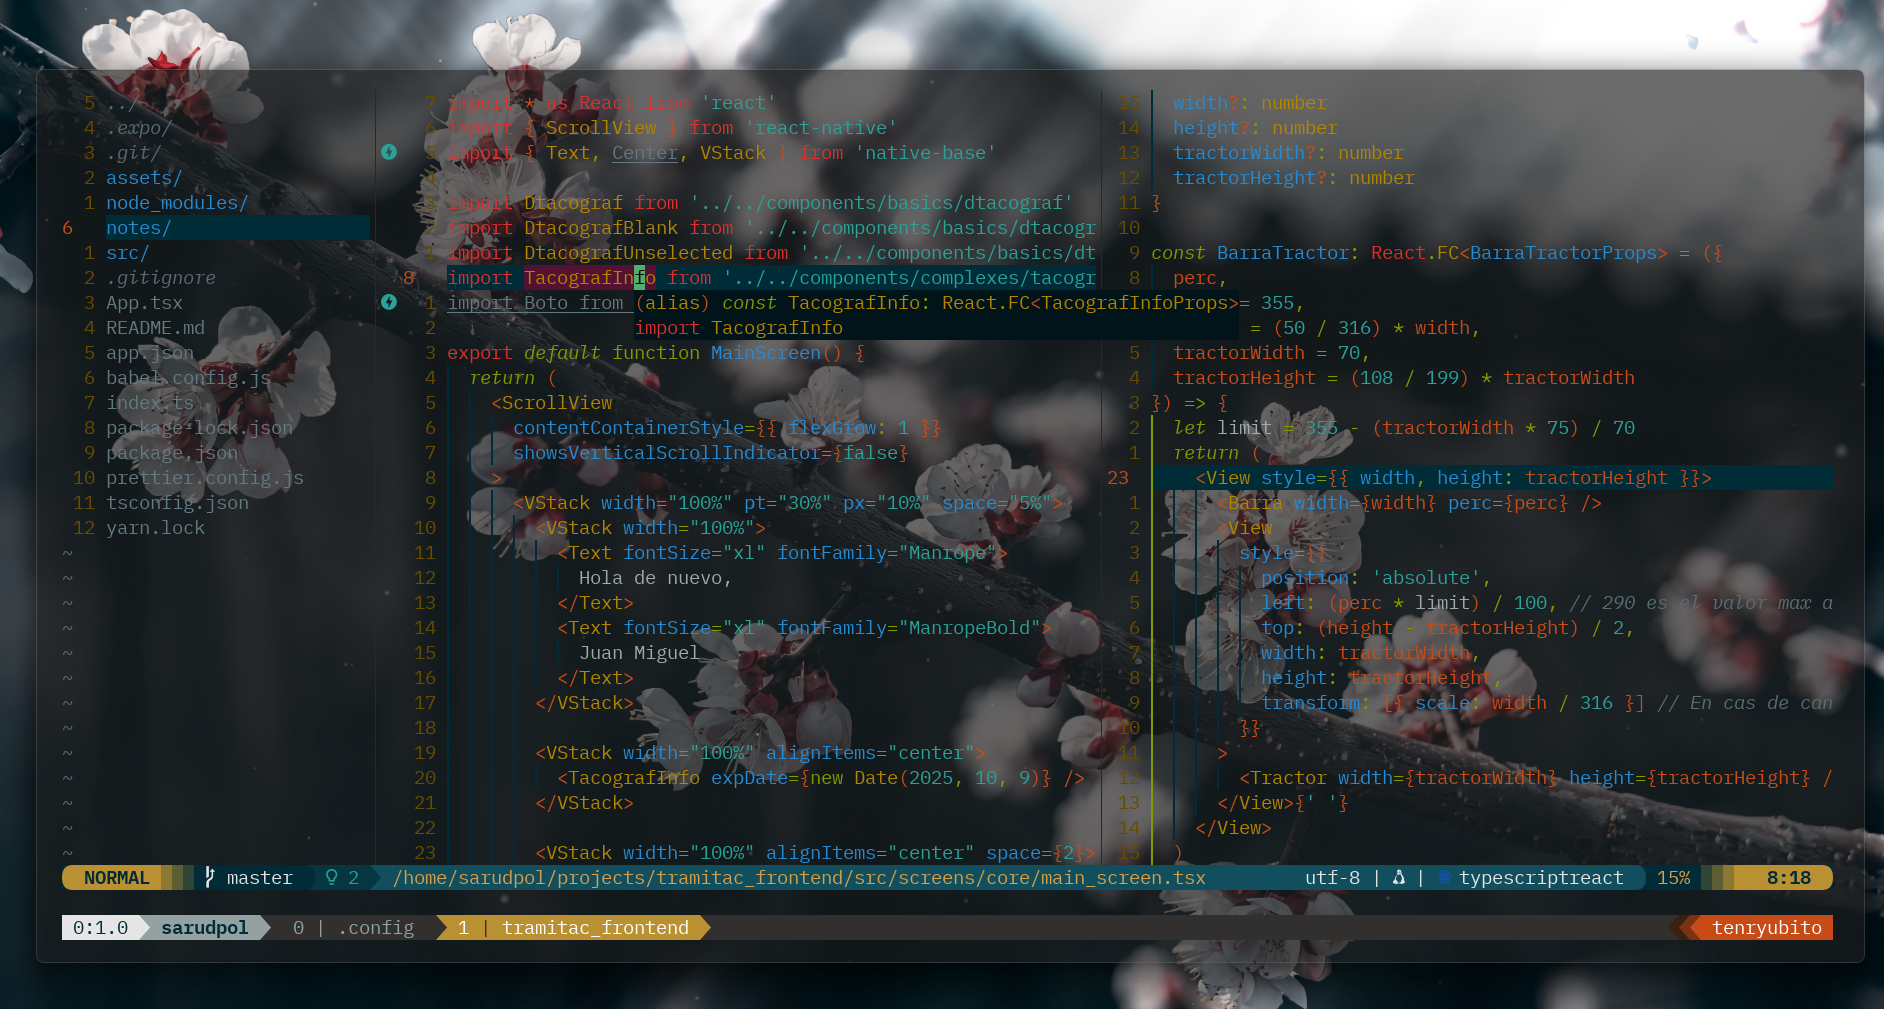
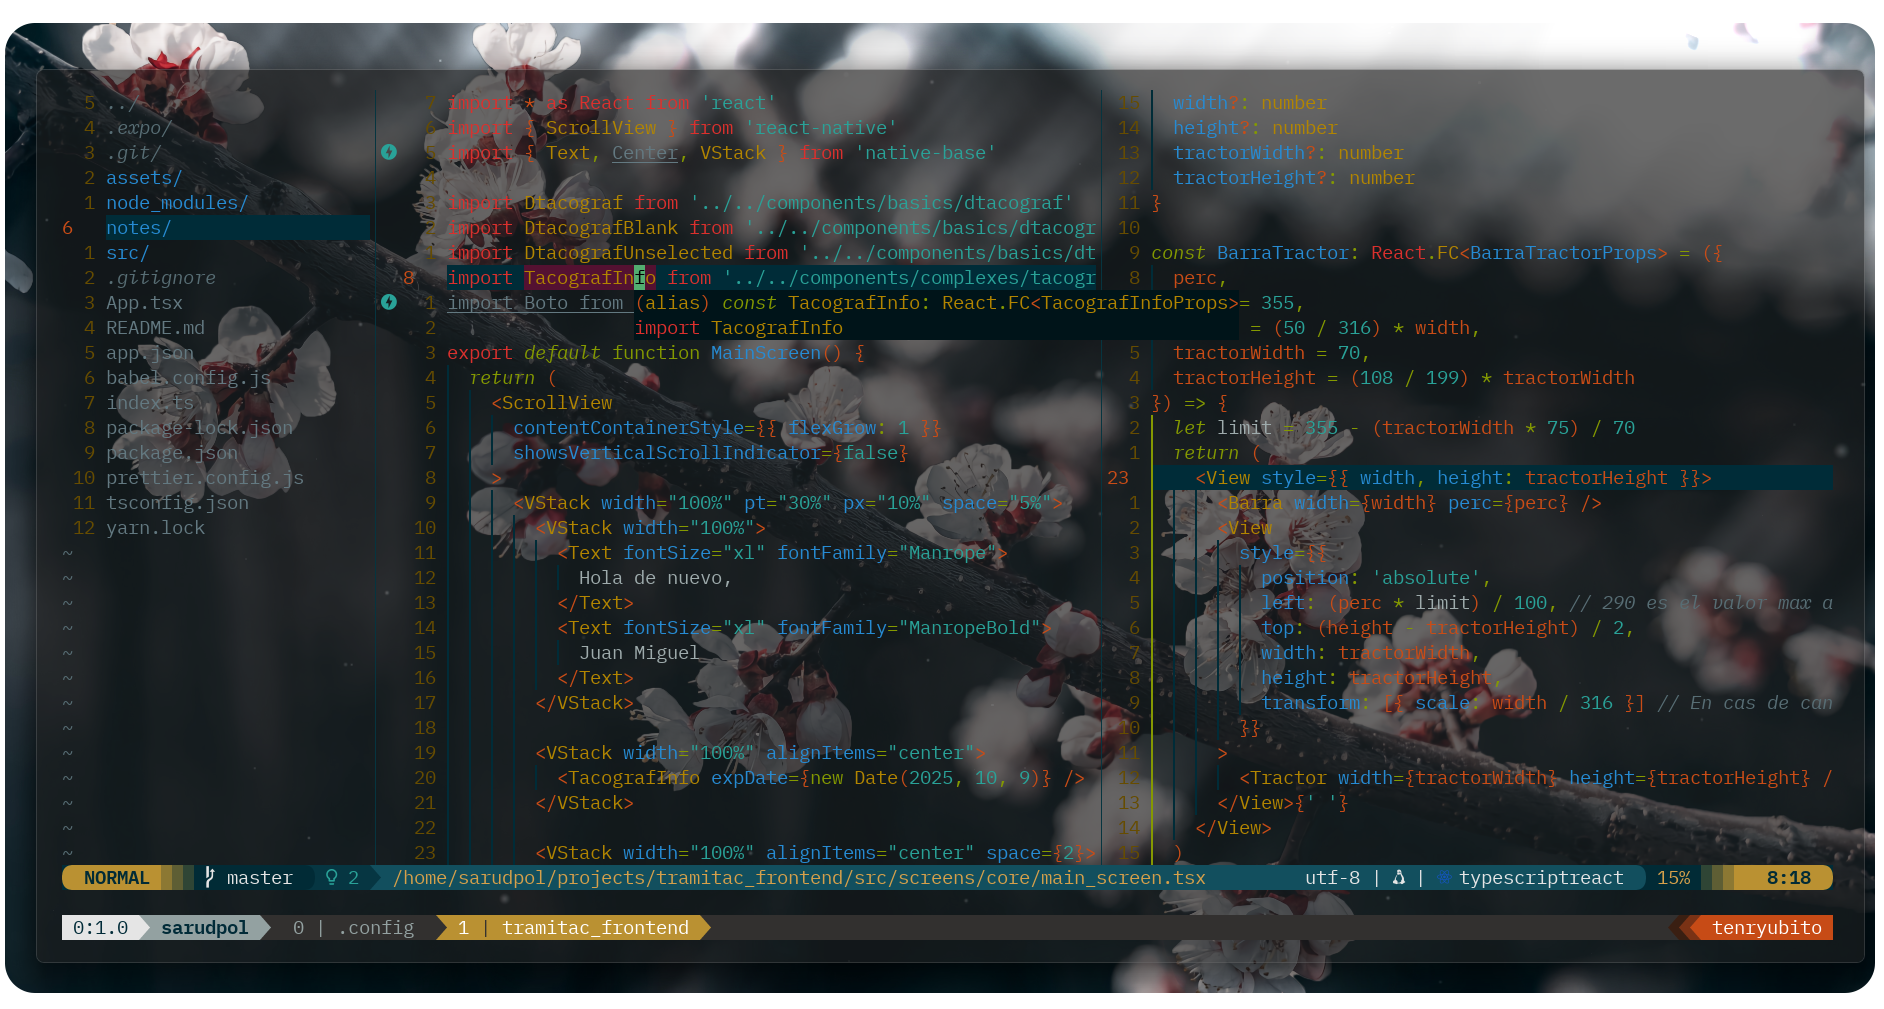
readme images

Changed region(s): [[0.0, 0.0, 1.0, 1.0], [0.0, 0.0, 0.3694, 0.0614], [0.4002, 0.0, 0.5849, 0.0307]]

diff --git a/README.md b/README.md
@@ -1,8 +1,6 @@
 # 🏯🎋🎍🌸 saruDpol's dotfiles 🐒🥋🦧🦍
 
-![terminal](./images/terminal.png)
-
-![nvim](./images/nvim.png)
+---
 
 ### Japanese theme switch
 
@@ -14,6 +12,8 @@ Config for:
 - Build type: RelWithDebInfo
 - LuaJIT 2.1.1703358377
 - Run "nvim -V1 -v" for more info
+
+![nvim](./images/nvim.png)
 
 ## Replication Notes
 
